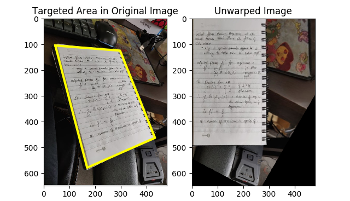
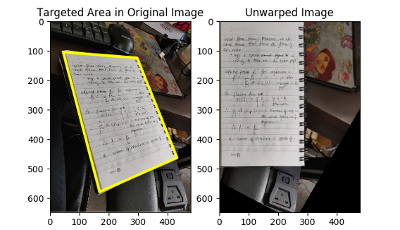
resacled image. updated readme

diff --git a/README.md b/README.md
@@ -26,8 +26,12 @@ I used the following two mechanisms of corner detection on image type 1 and imag
 - `cv2.warpPerspective()`
 
 ## Results 
-![](images/shi_tomashi_corners.png) ![](images/rectangle_unwarp.png)
-![](images/Douglas-Peucker.png) ![](images/unwarping_nb.png)
+
+### Corner Detection 
+![](images/shi_tomashi_corners.png) ![](images/Douglas-Peucker.png)
+
+### Skew Correction
+![](images/rectangle_unwarp.png) ![](images/unwarping_nb.png)
 
 ###### For a detailed explanation, refer to my medium article
 
